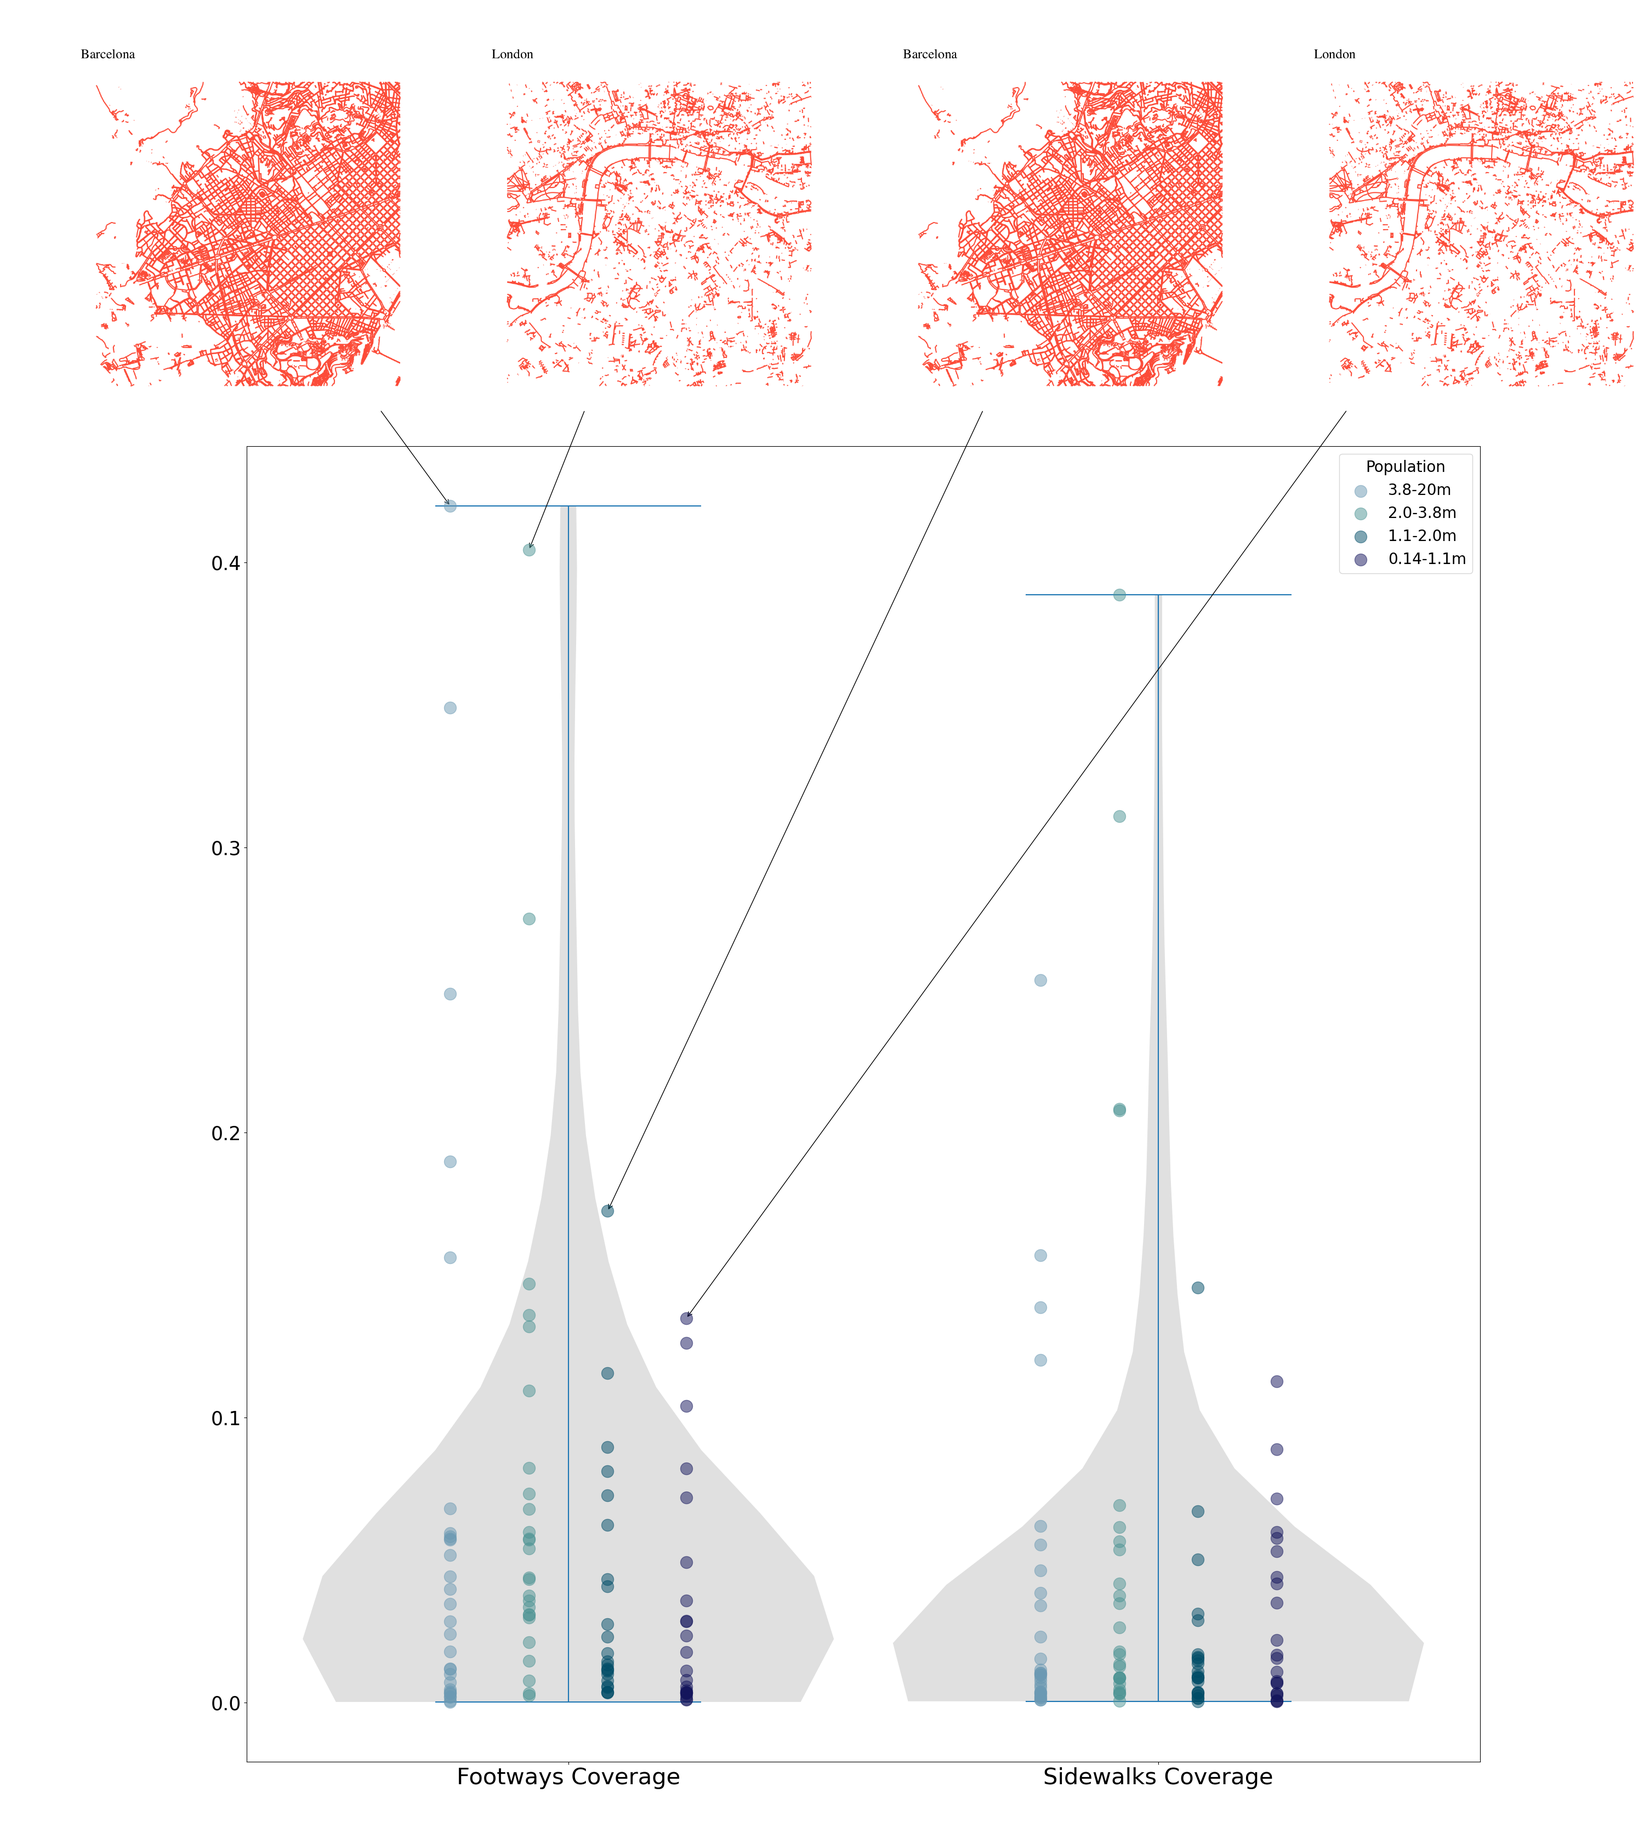
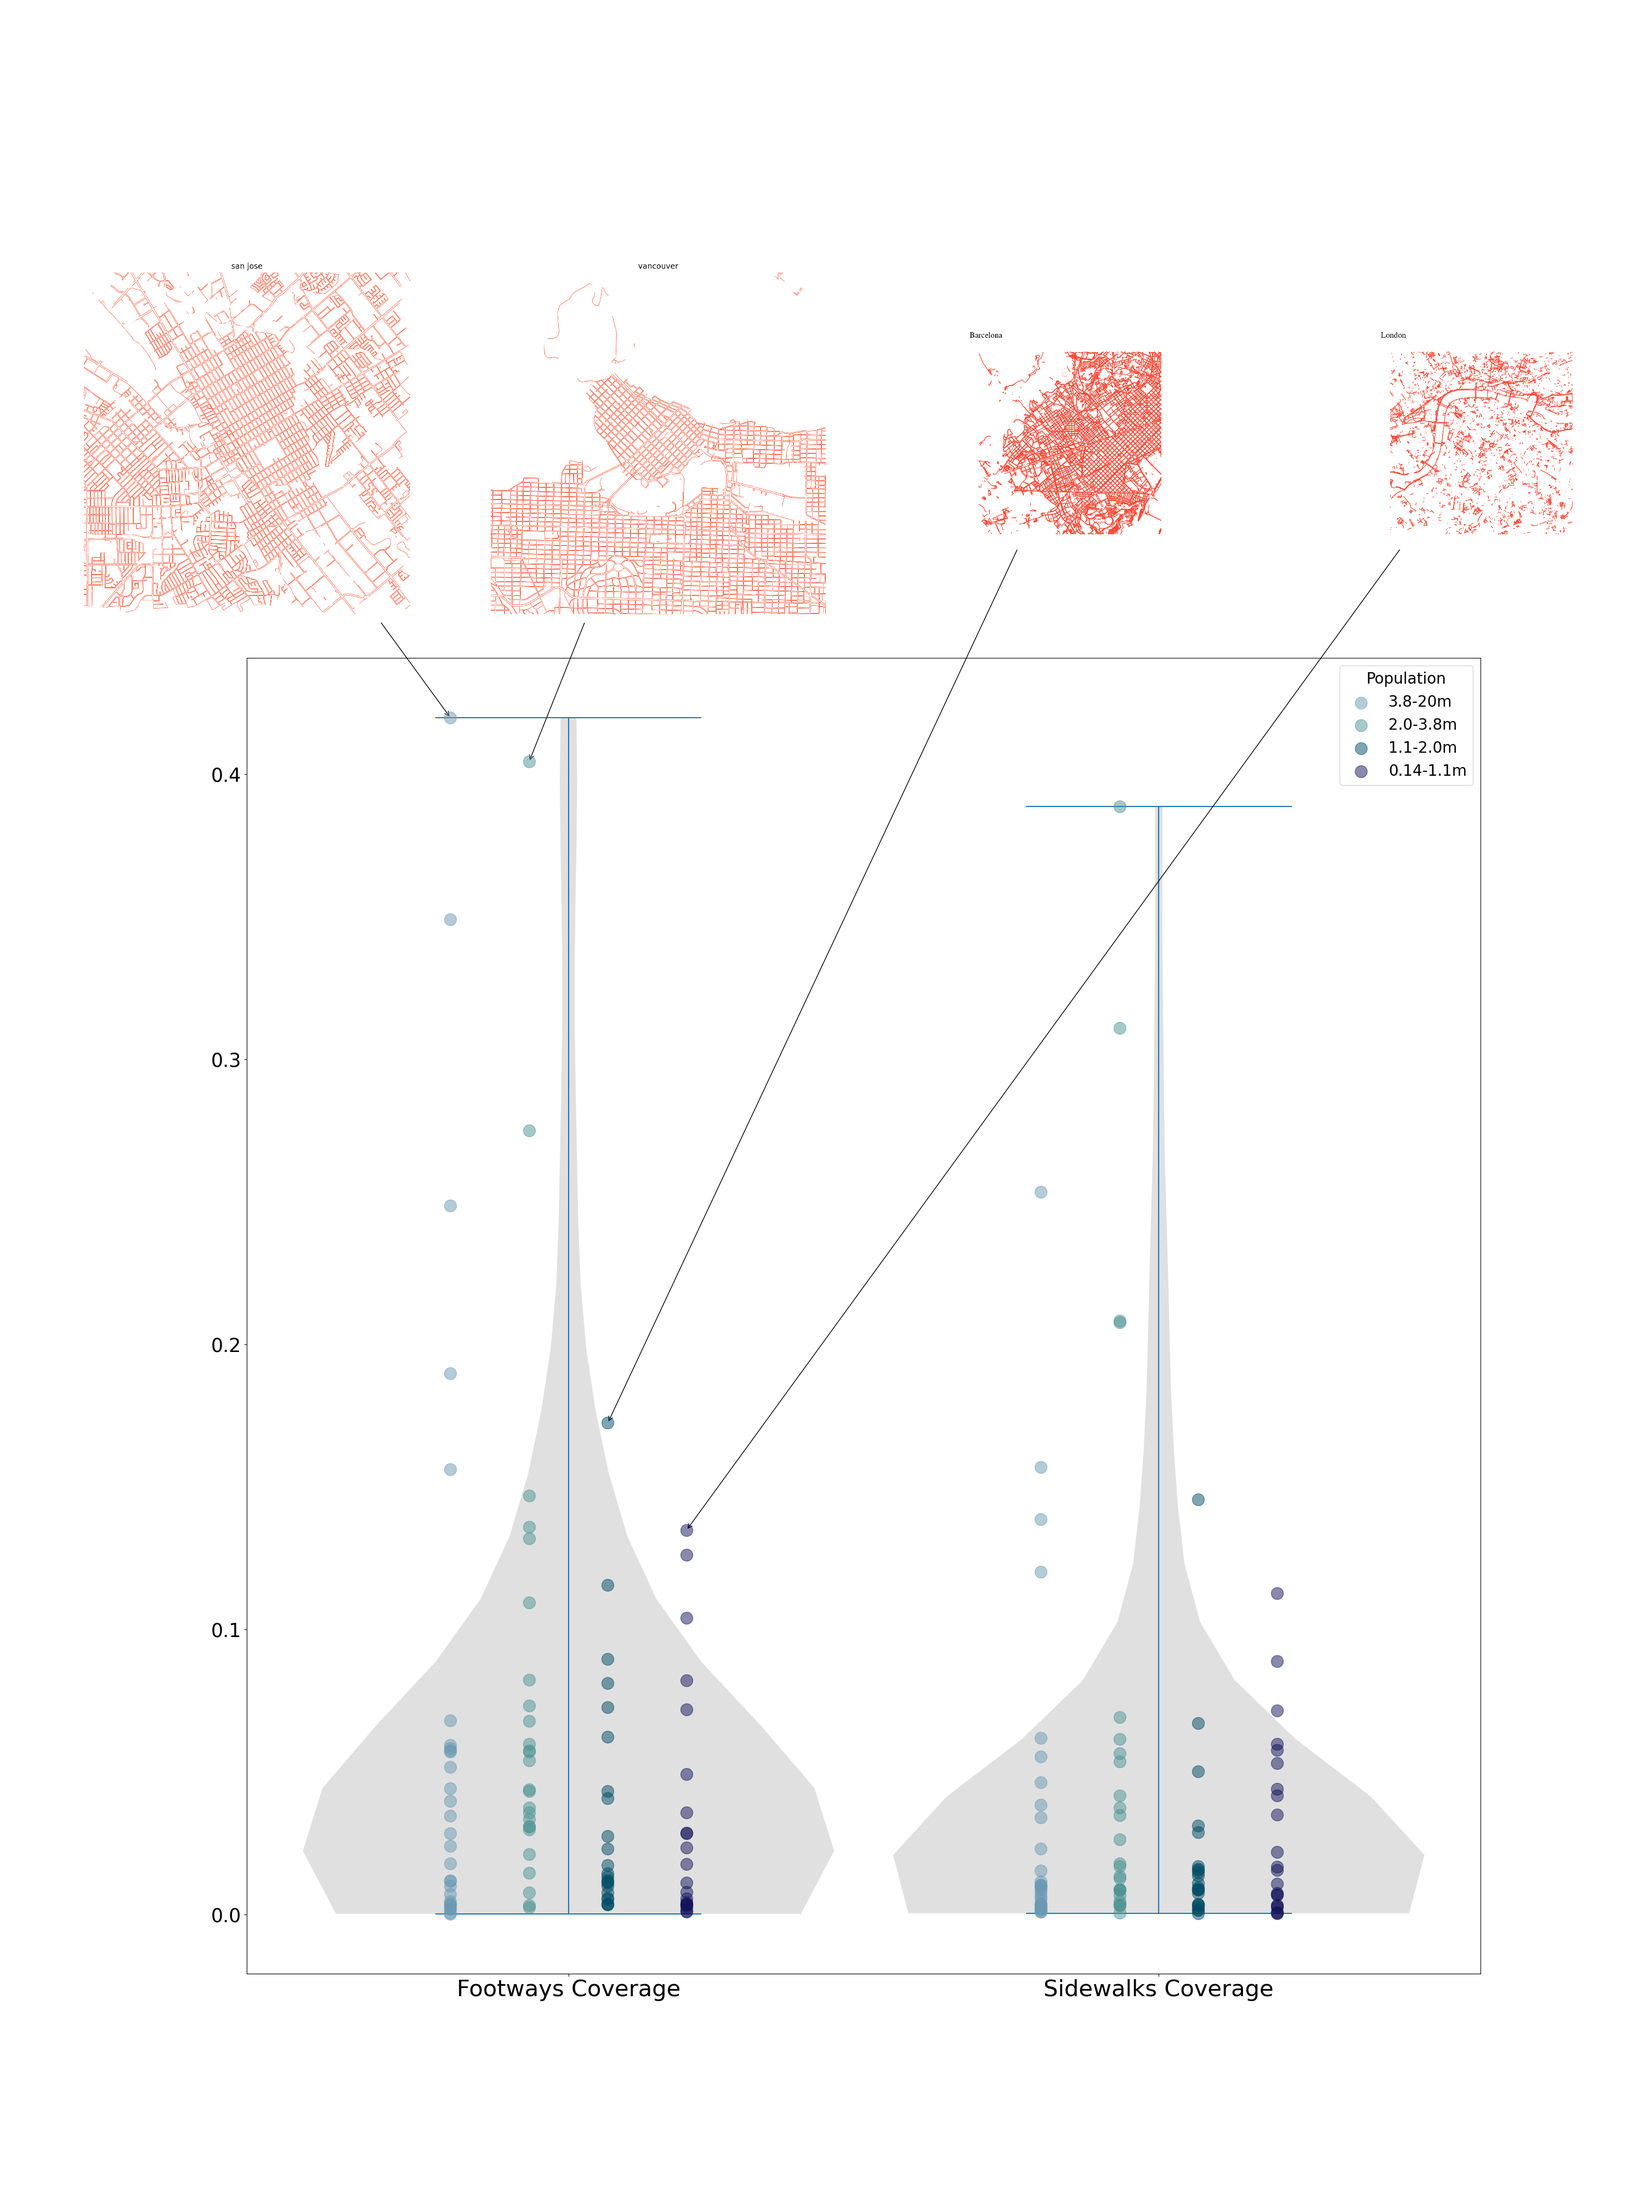
Updating figure to use new centre images

diff --git a/python/analyse_city_data.py b/python/analyse_city_data.py
@@ -347,7 +347,7 @@ annotate_figure(f, ax, df, search_term_to_popquant, img_path, (0.05,0.1), cities
 img_path = os.path.join(img_dir, "coverage_distributions_all_sidewalk_combined_groupbypop_imginset.png")
 cities = ['London, England', 'San Jose, United States']
 f, ax = violin_plot(df, data_cols, None, None, search_term_to_popquant, figsize = (30,40), axes_bbox= [0.15,0.1,0.75,0.6], labelsize = 30, legend_size = 20, pt_size=250, legend_title = "Population")
-inset_figure(f, ax, df, search_term_to_popquant, None, [(0.15,0.8), (0.4, 0.8), (0.65, 0.8), (0.9, 0.8)], 0.5, img_dir, img_path, data_col = "footways_coverage")
+inset_figure(f, ax, df, search_term_to_popquant, None, [(0.15,0.8), (0.4, 0.8), (0.65, 0.8), (0.9, 0.8)], 0.3, img_dir, img_path, data_col = "footways_coverage")
 
 
 ############################
